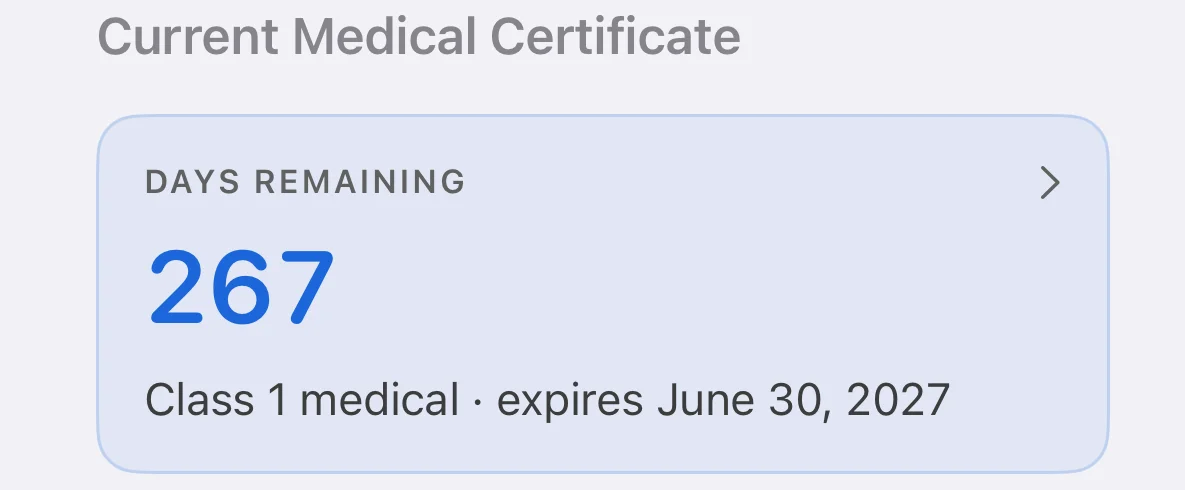
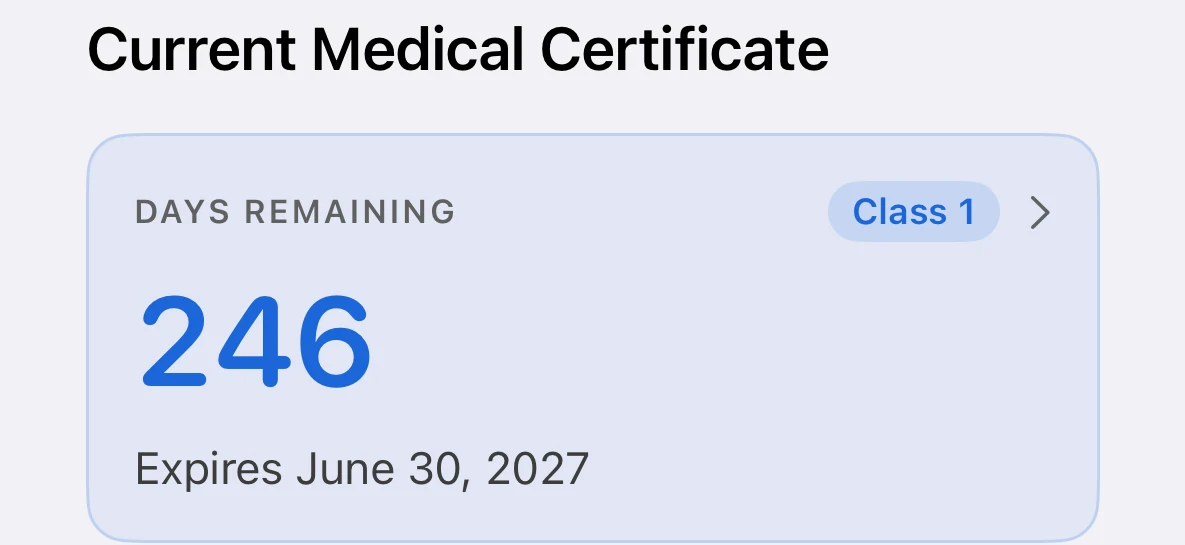
sitemap: lastmod

diff --git a/index.html b/index.html
@@ -562,7 +562,7 @@
           </div>
           <figure class="pillar-media">
             <div class="pillar-stage">
-              <img src="/screenshots/basicmed.webp?v=20260828" width="1206" height="2620" loading="lazy" decoding="async" alt="BasicMed screen showing the 24-month medical education course and 48-month comprehensive medical exam countdowns, each with its FAA citation">
+              <img src="/screenshots/basicmed.webp?v=20261029" width="1206" height="2620" loading="lazy" decoding="async" alt="BasicMed screen showing the 24-month medical education course and 48-month comprehensive medical exam countdowns, each with its FAA citation">
             </div>
             <figcaption>Course and exam countdowns with FAA citations. Sample data.</figcaption>
           </figure>
@@ -582,7 +582,7 @@
         <figure><img src="/screenshots/medxpress.webp?v=20261029" width="1206" height="2620" loading="lazy" decoding="async" alt="The in-app records screen with medications and doctor visits organized to match the FAA form"><figcaption>Your records, organized and ready to autofill</figcaption></figure>
         <figure><img src="/screenshots/si.webp?v=20261029" width="1206" height="2620" loading="lazy" decoding="async" alt="Special Issuance checklist with requirements and reminders"><figcaption>Stay on top of Special Issuance</figcaption></figure>
         <figure><img src="/screenshots/health.webp?v=20261029" width="1206" height="2620" loading="lazy" decoding="async" alt="A health metric charted against the FAA's cited threshold"><figcaption>Your numbers vs. the FAA's own thresholds</figcaption></figure>
-        <figure><img src="/screenshots/documents.webp?v=20260828b" width="1206" height="2620" loading="lazy" decoding="async" alt="The Share-with-your-AME screen, choosing which records to bundle into one PDF"><figcaption>Bundle it into one PDF for your AME</figcaption></figure>
+        <figure><img src="/screenshots/documents.webp?v=20261029" width="1206" height="2620" loading="lazy" decoding="async" alt="The Share-with-your-AME screen, choosing which records to bundle into one PDF"><figcaption>Bundle it into one PDF for your AME</figcaption></figure>
         <figure><img src="/screenshots/faa-reference.webp?v=20261029" width="1206" height="2620" loading="lazy" decoding="async" alt="An FAA Reference entry showing what the FAA says, its source, and the date the citation was checked"><figcaption>Ask a plain question, get the FAA's cited answer</figcaption></figure>
       </div>
       <p class="fineprint">Screens use sample data.</p>

diff --git a/faa-medical-duration.html b/faa-medical-duration.html
@@ -469,7 +469,7 @@
     <div class="card">
       <p style="margin-top:0"><strong>Pilot Medical Guardian</strong> calculates your certificate's expiration from these actual <strong>14 CFR 61.23</strong> rules (your class, your age at the exam, the end-of-month convention) and counts down the days to it. It's a <strong>privacy-first app for iPhone, iPad, and Mac</strong>: your records stay on your own device and iCloud, and I can never see them.</p>
       <figure class="shot">
-        <img src="/screenshots/renewal-countdown.webp?v=20261009" width="1185" height="490" loading="lazy" decoding="async" alt="Pilot Medical Guardian home screen showing the days remaining on a Class 1 medical certificate and its expiration date">
+        <img src="/screenshots/renewal-countdown.webp?v=20261029" width="1185" height="545" loading="lazy" decoding="async" alt="Pilot Medical Guardian home screen showing the days remaining on a Class 1 medical certificate and its expiration date">
         <figcaption>The countdown on the app's home screen. Sample data.</figcaption>
       </figure>
       <p style="margin-bottom:0">It's an information and record-keeping tool. It shows you the rules and the dates; it doesn't make any determination for you. You stay in control.</p>
